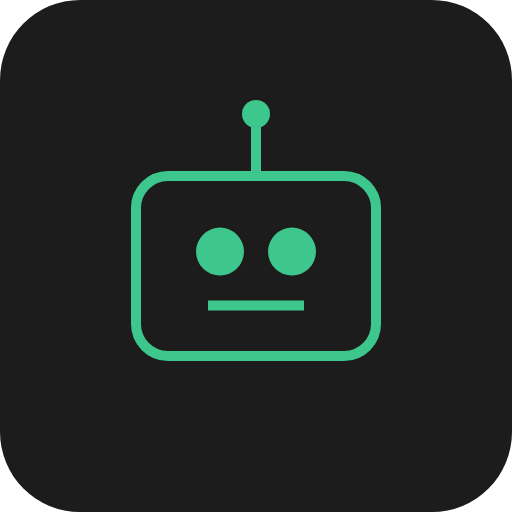
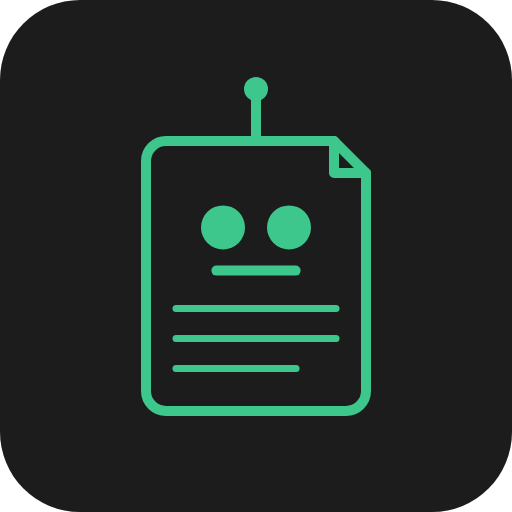
feat: enhance service worker versioning and update RobotIcon design
- Introduced a plugin to stamp the service worker with the current Git commit version for better cache management.
- Updated the RobotIcon component to reflect a new design with a page outline and improved visual elements.
- Enhanced icon generation scripts to align with the new design specifications and maintain consistent branding.

Changed region(s): [[0.25, 0.1562, 0.75, 0.8125], [0.3438, 0.4062, 0.6562, 0.625]]

diff --git a/src/components/RobotIcon.tsx b/src/components/RobotIcon.tsx
@@ -1,35 +1,89 @@
 import type { SVGProps } from 'react';
 
 /**
- * Custom robot icon matching the app branding.
- * The viewBox frames the head so it center-aligns with adjacent text;
- * the antenna extends above via overflow: visible.
+ * Document-robot icon matching the app branding.
+ * ViewBox frames the page body; antenna extends above via overflow: visible.
  */
 export function RobotIcon(props: SVGProps<SVGSVGElement>) {
-  // Head rect: x=136 y=186 w=240 h=180, stroke=10 → visual bounds 131..381 x 181..371
-  // ViewBox is set to the head bounds so the head aligns with text baseline.
+  // Page: x=146 y=141 w=220 h=270, stroke=10 → visual bounds ~141..371 x ~136..416
+  // ViewBox covers the page body so it center-aligns with adjacent text.
   return (
     <svg
-      viewBox="131 181 250 190"
+      viewBox="136 136 240 280"
       fill="none"
       xmlns="http://www.w3.org/2000/svg"
       style={{ overflow: 'visible' }}
       {...props}
     >
-      <rect
-        x="136"
-        y="186"
-        width="240"
-        height="180"
-        rx="32"
+      {/* Page outline with folded corner */}
+      <path
+        d="M334 141 L166 141 A20 20 0 0 0 146 161 L146 391 A20 20 0 0 0 166 411 L346 411 A20 20 0 0 0 366 391 L366 173 Z"
         stroke="currentColor"
         strokeWidth="10"
+        strokeLinecap="round"
+        strokeLinejoin="round"
       />
-      <circle cx="220" cy="262" r="24" fill="currentColor" />
-      <circle cx="292" cy="262" r="24" fill="currentColor" />
-      <line x1="208" y1="316" x2="304" y2="316" stroke="currentColor" strokeWidth="10" />
-      <line x1="256" y1="186" x2="256" y2="131" stroke="currentColor" strokeWidth="10" />
-      <circle cx="256" cy="124" r="14" fill="currentColor" />
+      {/* Fold */}
+      <path
+        d="M334 141 L334 173 L366 173"
+        stroke="currentColor"
+        strokeWidth="10"
+        strokeLinecap="round"
+        strokeLinejoin="round"
+        fill="none"
+      />
+      {/* Eyes */}
+      <circle cx="223" cy="228" r="22" fill="currentColor" />
+      <circle cx="289" cy="228" r="22" fill="currentColor" />
+      {/* Mouth */}
+      <line
+        x1="216"
+        y1="271"
+        x2="296"
+        y2="271"
+        stroke="currentColor"
+        strokeWidth="10"
+        strokeLinecap="round"
+      />
+      {/* Text lines */}
+      <line
+        x1="176"
+        y1="308"
+        x2="336"
+        y2="308"
+        stroke="currentColor"
+        strokeWidth="7"
+        strokeLinecap="round"
+      />
+      <line
+        x1="176"
+        y1="338"
+        x2="336"
+        y2="338"
+        stroke="currentColor"
+        strokeWidth="7"
+        strokeLinecap="round"
+      />
+      <line
+        x1="176"
+        y1="368"
+        x2="296"
+        y2="368"
+        stroke="currentColor"
+        strokeWidth="7"
+        strokeLinecap="round"
+      />
+      {/* Antenna */}
+      <line
+        x1="256"
+        y1="141"
+        x2="256"
+        y2="96"
+        stroke="currentColor"
+        strokeWidth="10"
+        strokeLinecap="round"
+      />
+      <circle cx="256" cy="89" r="12" fill="currentColor" />
     </svg>
   );
 }

diff --git a/vite.config.ts b/vite.config.ts
@@ -1,11 +1,37 @@
 import tailwindcss from '@tailwindcss/vite';
 import react from '@vitejs/plugin-react';
+import { execSync } from 'node:child_process';
+import { readFileSync, writeFileSync } from 'node:fs';
 import path from 'node:path';
-import { defineConfig } from 'vite';
+import { defineConfig, type Plugin } from 'vite';
+
+function stampServiceWorker(): Plugin {
+  return {
+    name: 'stamp-service-worker',
+    writeBundle({ dir }) {
+      if (!dir) return;
+      const swPath = path.resolve(dir, 'sw.js');
+      let sw: string;
+      try {
+        sw = readFileSync(swPath, 'utf-8');
+      } catch {
+        return;
+      }
+      const version = (() => {
+        try {
+          return execSync('git rev-parse --short HEAD', { encoding: 'utf-8' }).trim();
+        } catch {
+          return Date.now().toString(36);
+        }
+      })();
+      writeFileSync(swPath, sw.replace('__BUILD_VERSION__', version));
+    },
+  };
+}
 
 export default defineConfig({
   base: '/cv-builder/',
-  plugins: [tailwindcss(), react()],
+  plugins: [tailwindcss(), react(), stampServiceWorker()],
   resolve: {
     alias: {
       '@': path.resolve(__dirname, './src'),

diff --git a/public/sw.js b/public/sw.js
@@ -1,4 +1,4 @@
-const CACHE_NAME = 'biobot-v2';
+const CACHE_NAME = 'biobot-__BUILD_VERSION__';
 
 const PRECACHE_URLS = ['/cv-builder/', '/cv-builder/manifest.json'];
 
